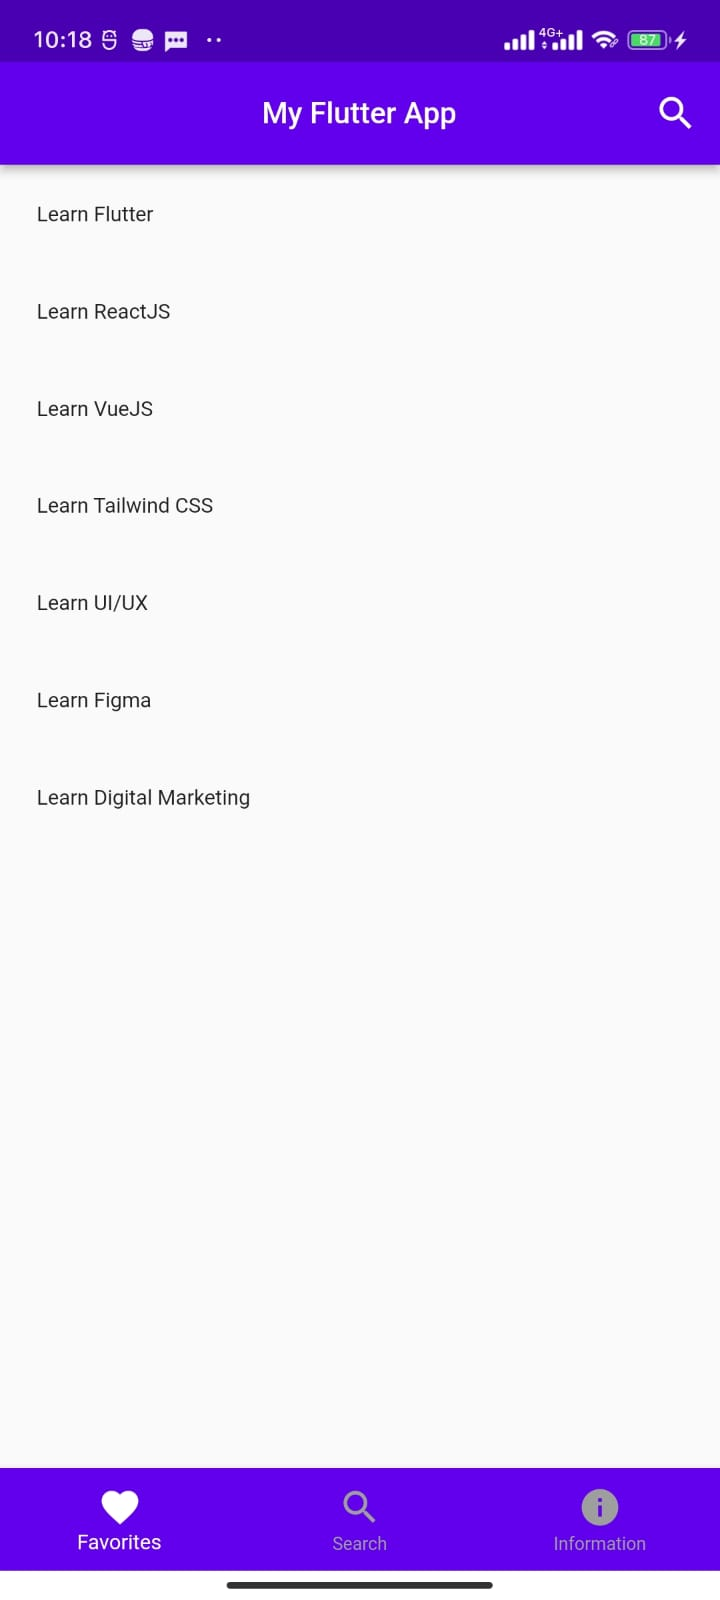
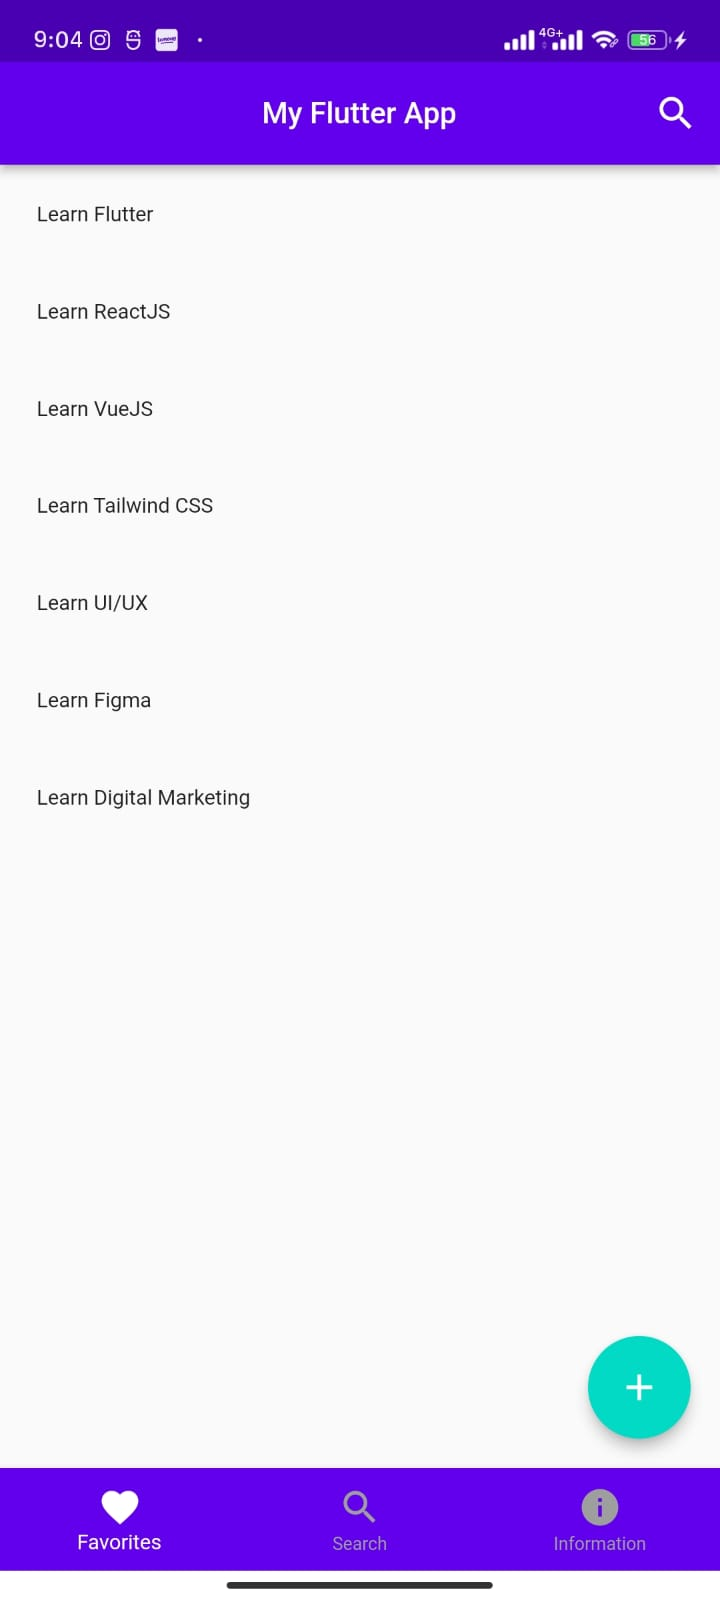
origin

Changed region(s): [[0.7944, 0.8125, 0.9778, 0.9062], [0.0306, 0.0, 0.275, 0.0312], [0.8861, 0.0, 0.9167, 0.0312]]

diff --git a/13_Platform Widget/Praktikum/prioritas/app/lib/material_page.dart b/13_Platform Widget/Praktikum/prioritas/app/lib/material_page.dart
@@ -48,6 +48,12 @@ class HomePage extends StatelessWidget {
       //       );
       //     }),
 
+      floatingActionButton: FloatingActionButton(
+        backgroundColor: secondaryColor,
+        onPressed: () {},
+        child: const Icon(Icons.add),
+      ),
+
       bottomNavigationBar: BottomNavigationBar(
           backgroundColor: primaryColor,
           selectedItemColor: baseColor,
